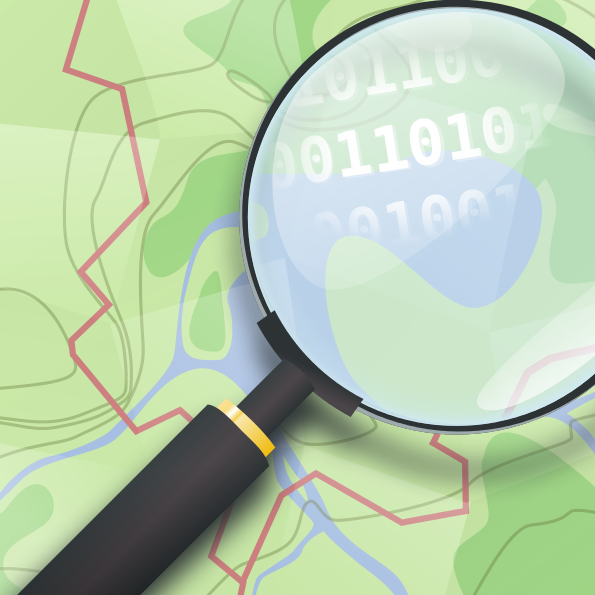
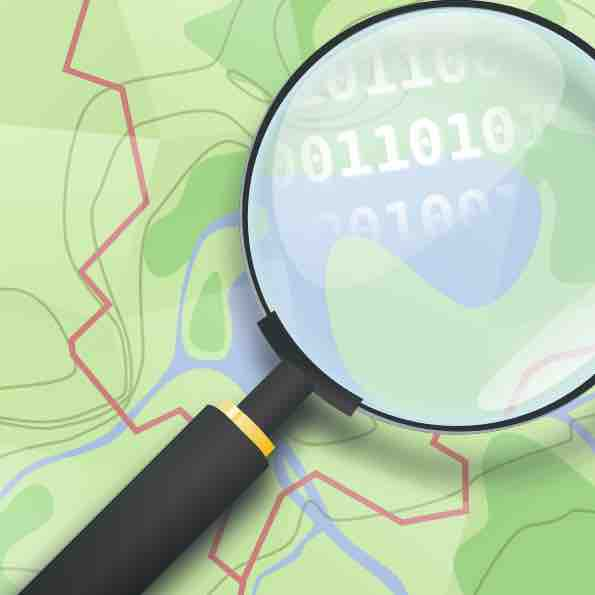
reduce open street map image size and add run a map3 node link to wiki

diff --git a/_includes/team.html b/_includes/team.html
@@ -32,7 +32,7 @@
                 <div class="col-lg-8 col-lg-offset-2 text-center">
                     <!--<p class="large text-muted">Lorem ipsum dolor sit amet, consectetur adipisicing elit. Aut eaque, laboriosam veritatis, quos non quis ad perspiciatis, totam corporis ea, alias ut unde.</p>-->
                     <div class="col-sm-6">
-                        <a href="#features" class="page-scroll btn btn-xl">Join Us</a>
+                        <a href="https://github.com/hyperion-hyn/wiki/wiki/Run-a-Map3-Node" class="page-scroll btn btn-xl">Run a Node</a>
                     </div>
                     <div class="col-sm-6">
                         <a href="https://www.hyn.space/wp-content/uploads/2018/08/Atlas-the-spatial-consensus-blockchain-v1.0.pdf" class="page-scroll btn btn-xl">How it works</a>
